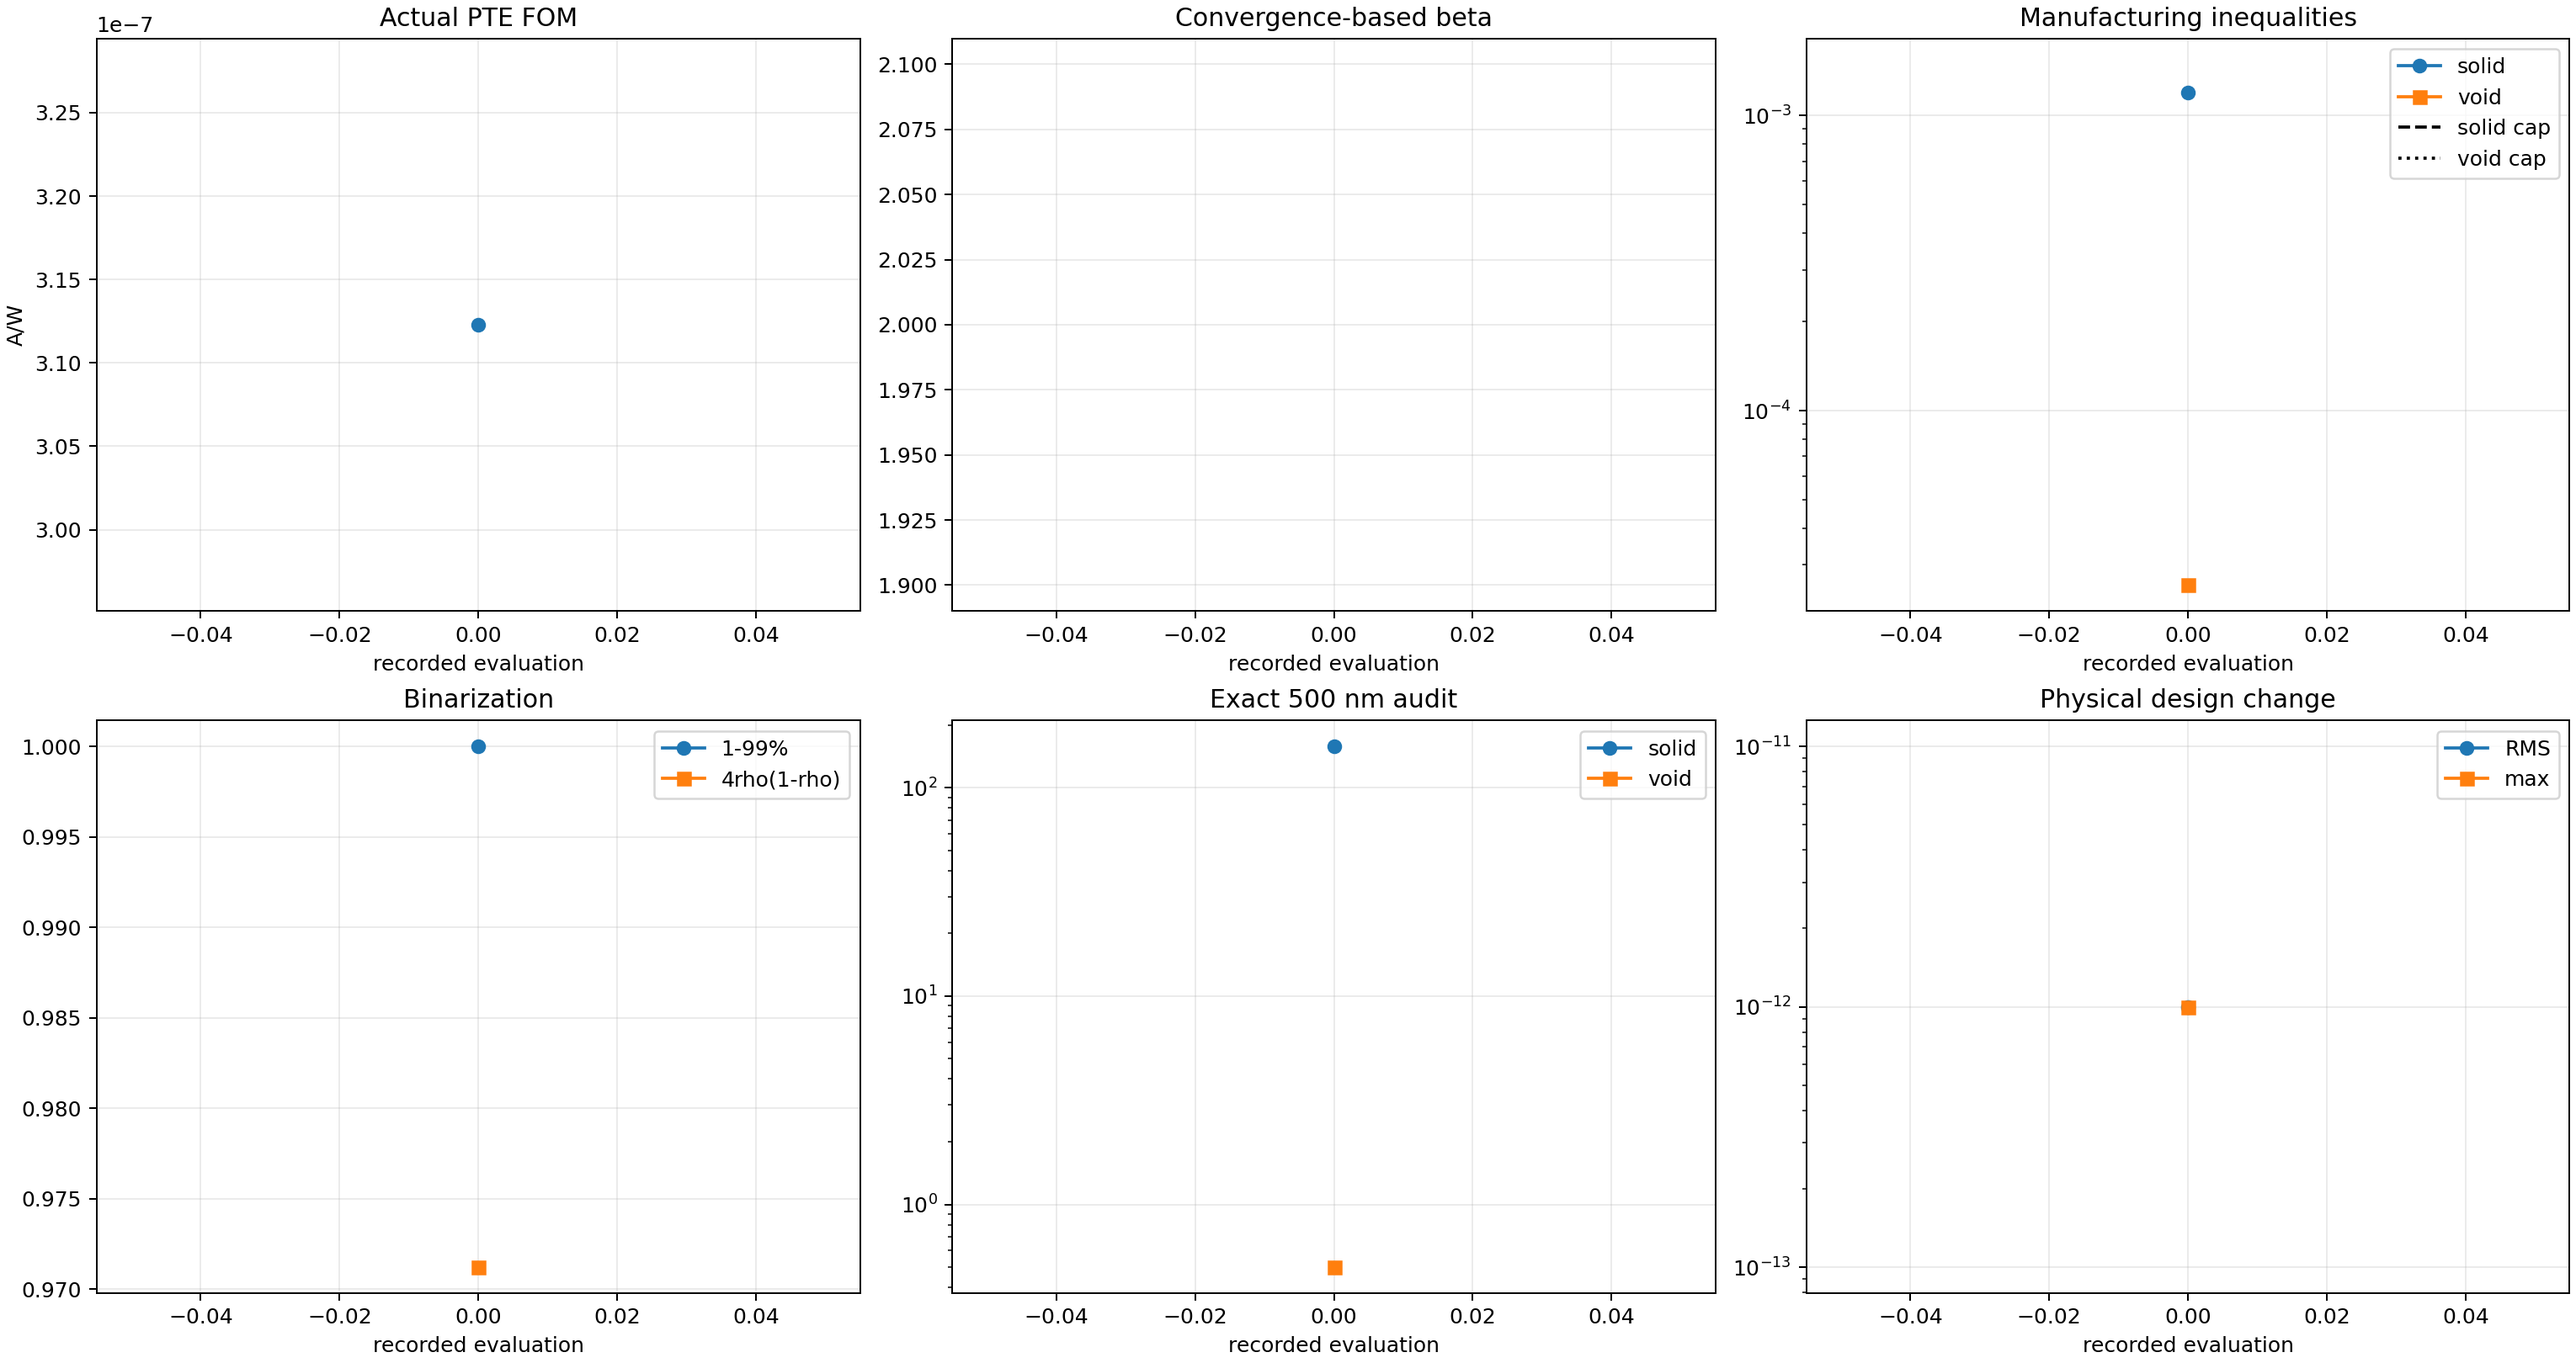
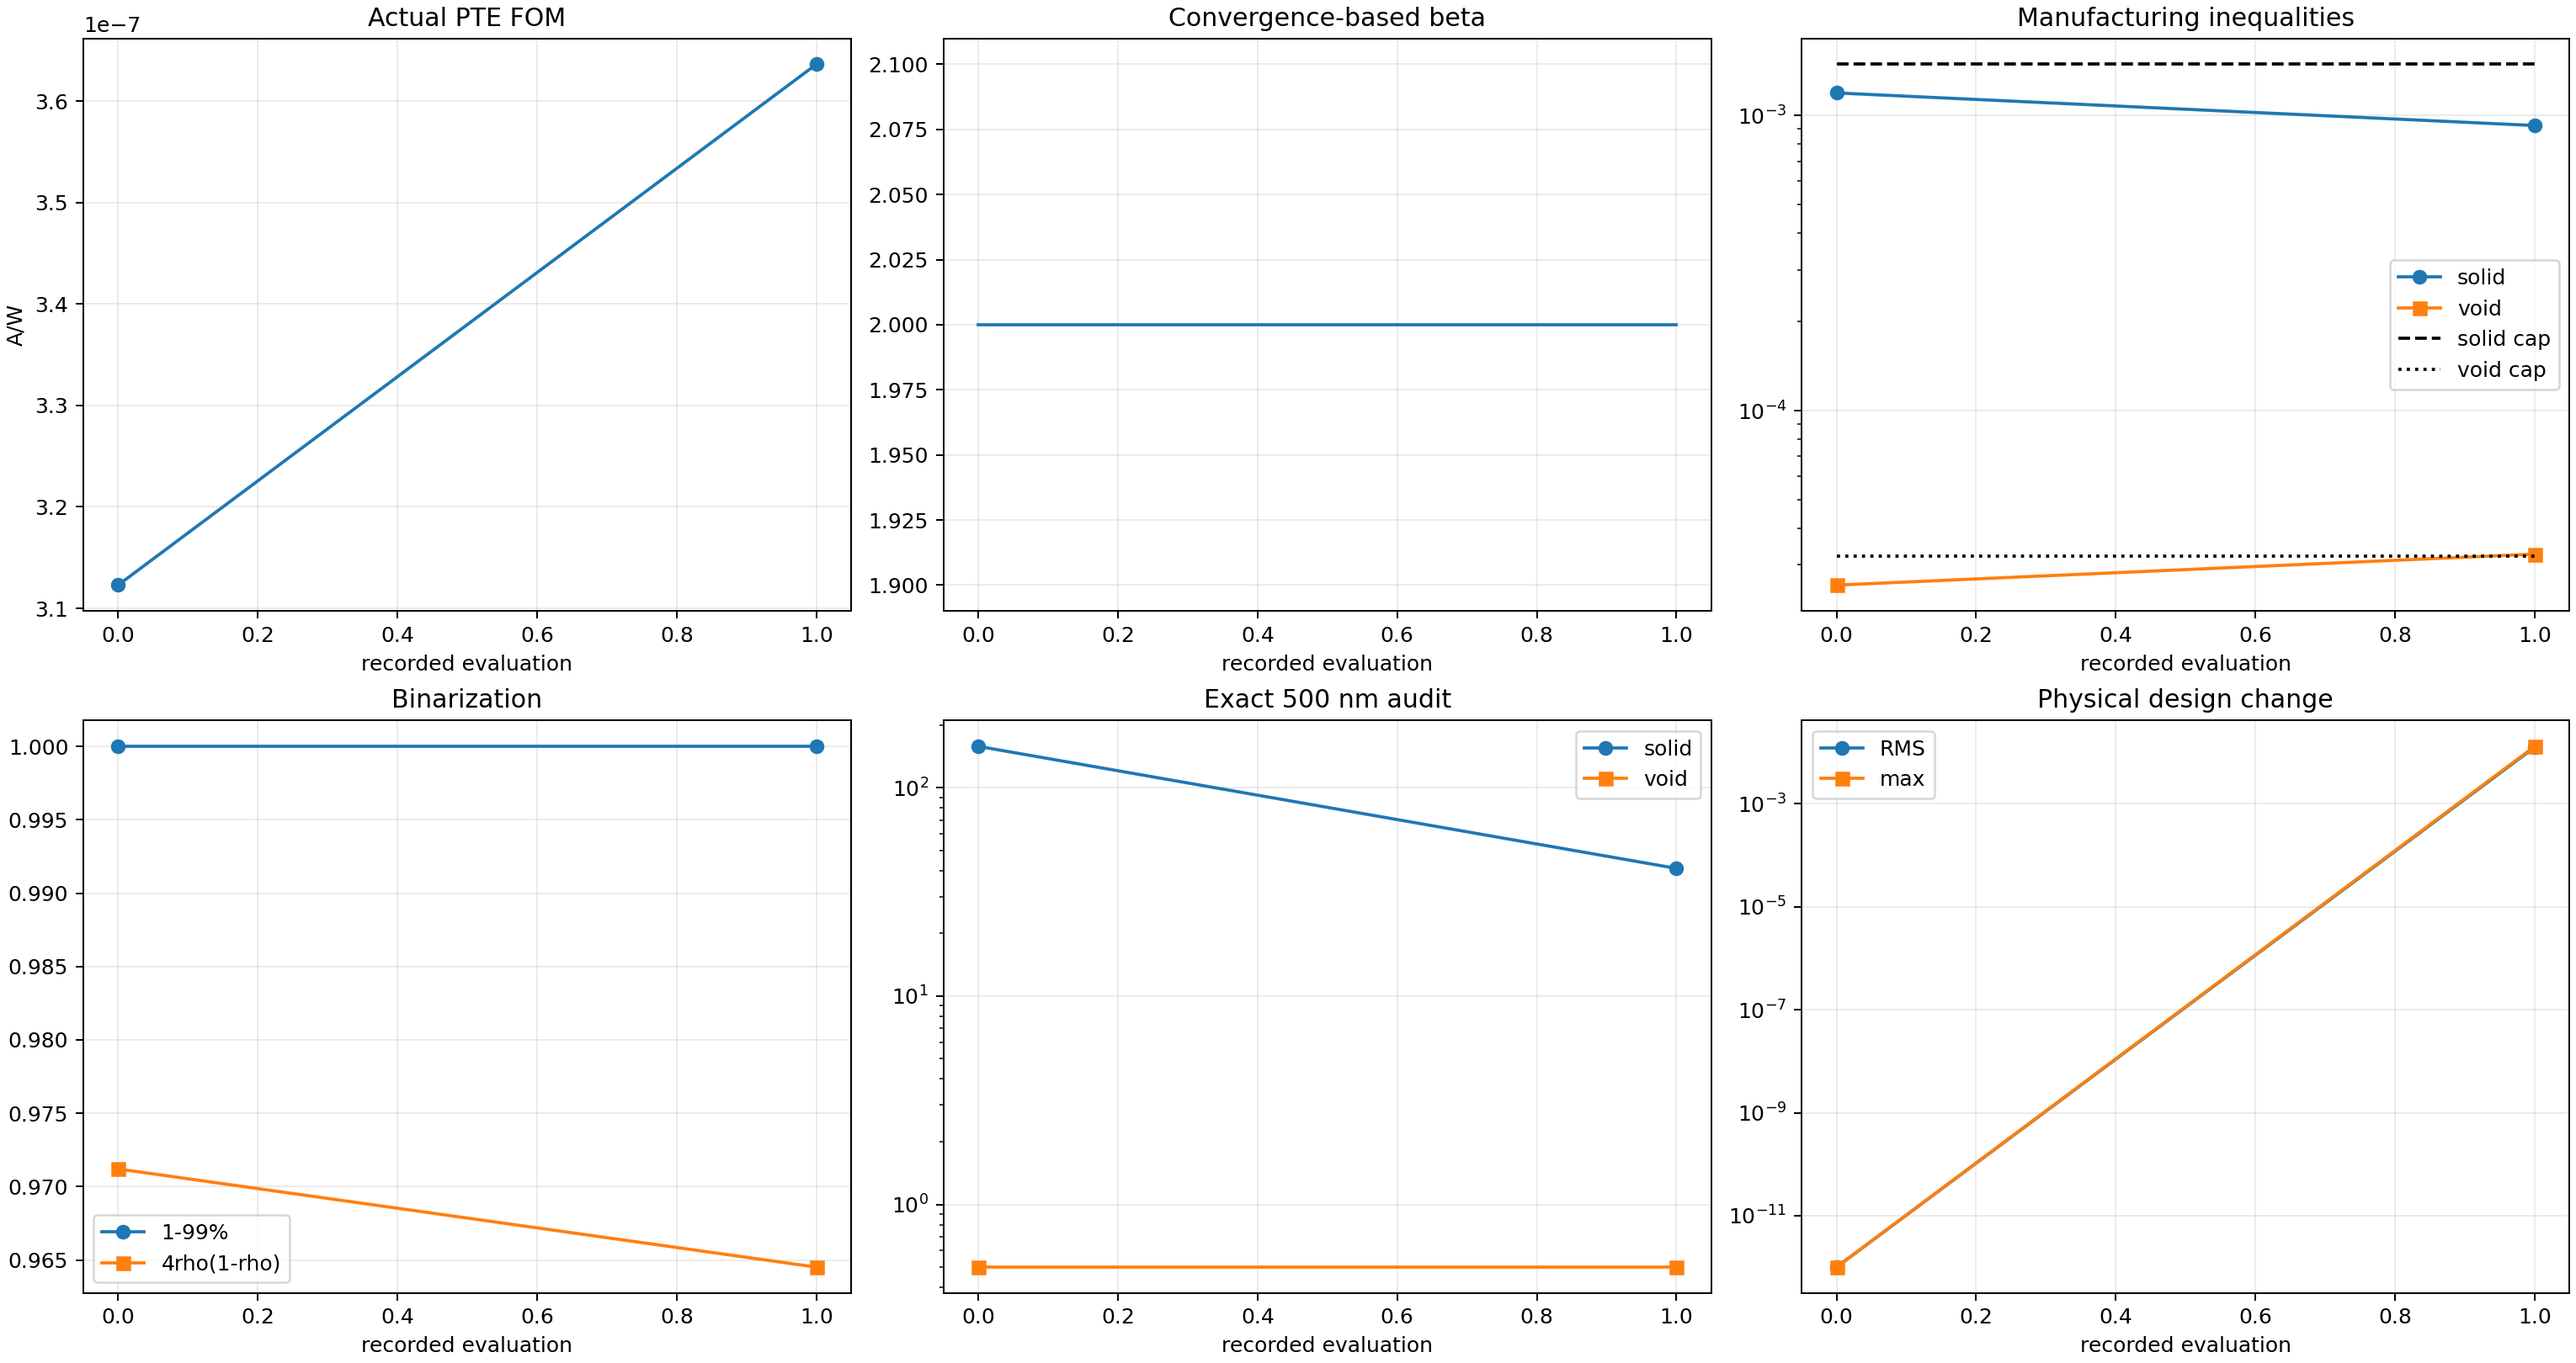
Record Run 005 run008_Ea_b002_s001_g001_accepted_mma

diff --git a/photothermal_pte/optimization_runs/run_008_corrected_Ea_objective_first_constrained/results/OPTIMIZATION_REPORT.md b/photothermal_pte/optimization_runs/run_008_corrected_Ea_objective_first_constrained/results/OPTIMIZATION_REPORT.md
@@ -2,12 +2,12 @@
 
 Status: `RUNNING_CORRECTED_EA_OBJECTIVE_FIRST_CONSTRAINED_OPTIMIZATION`
 
-Current stage: beta=2, accepted stage iteration=0, global iteration=0.
+Current stage: beta=2, accepted stage iteration=1, global iteration=1.
 
 Constraint contract: `soft_disk_opening_500nm_from_iteration_zero_v5`.
 
-Actual FOM: `3.122877693863e-07 A/W`. Fixed-cap solid/void constraints: `1.192176e-03` / `2.563430e-05` with caps `1.490220e-03` / `3.204288e-05`.
+Actual FOM: `3.636318059197e-07 A/W`. Fixed-cap solid/void constraints: `9.244644e-04` / `3.265484e-05` with caps `1.490220e-03` / `3.204288e-05`.
 
-Exact 500 nm bad cells: solid `158`, void `0`. Stage convergence: `False` (need at least 8 accepted updates).
+Exact 500 nm bad cells: solid `41`, void `0`. Stage convergence: `False` (need at least 8 accepted updates).
 
 Beta advances only after the stage FOM/density plateau. The run is not complete until the projected-binary and exact 500 nm gates pass and a fresh thresholded-binary GPU/CUDA evaluation succeeds.
